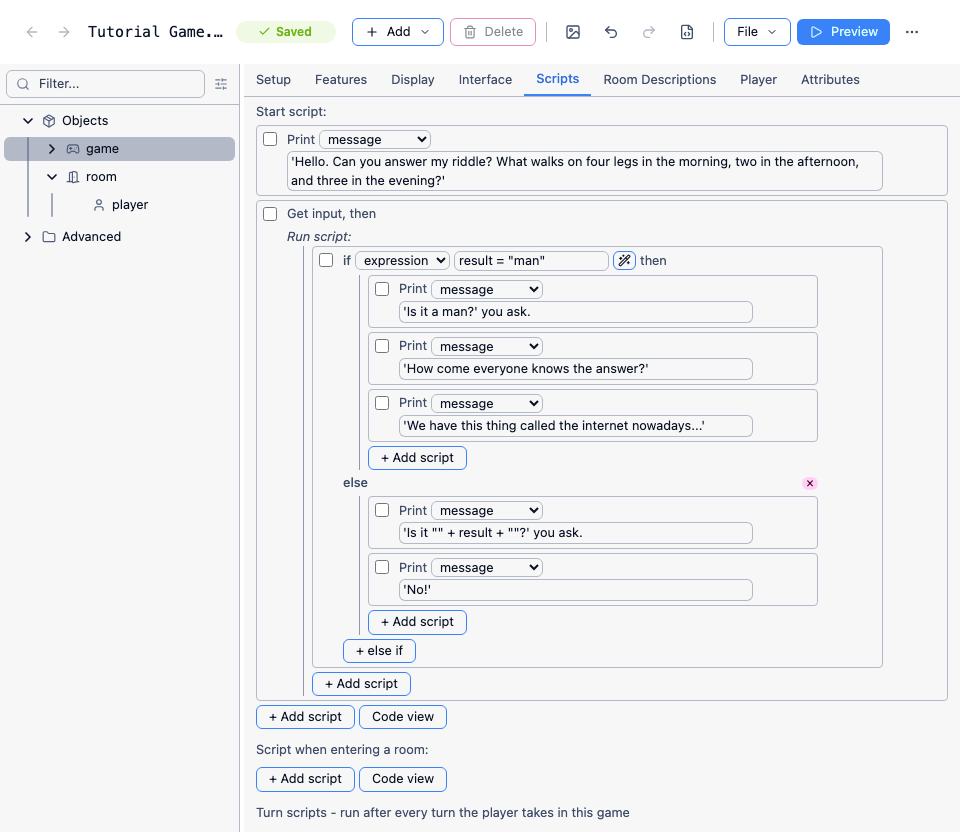
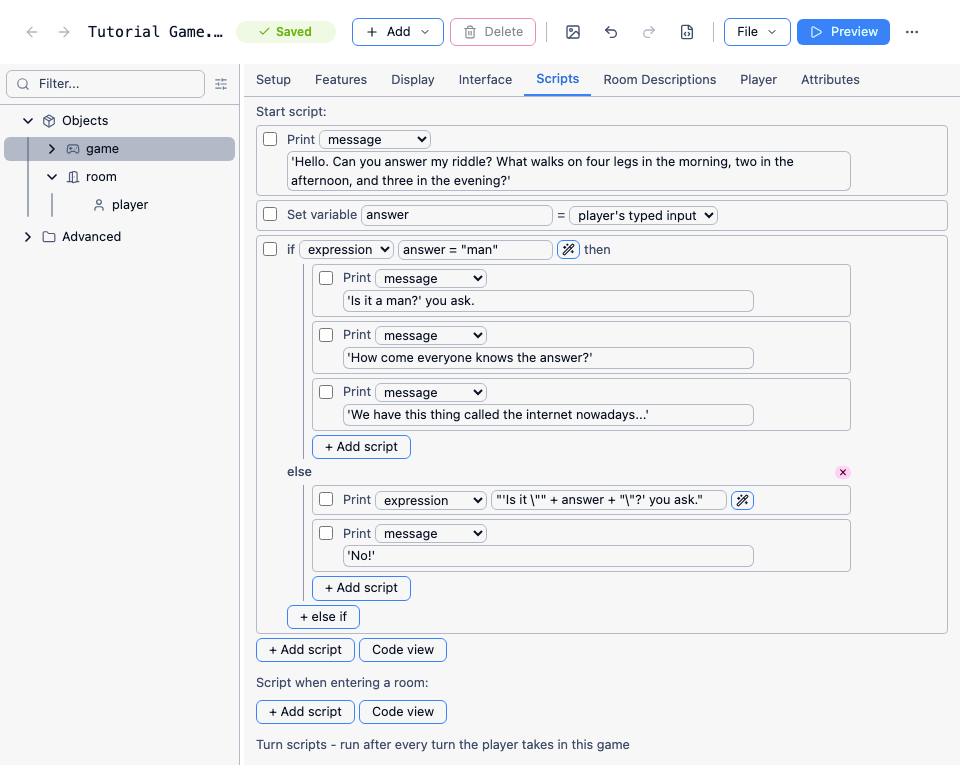
docs: teach the synchronous input forms instead of the callback commands (#2286)

diff --git a/site/src/content/docs/reference/functions/user-interface.md b/site/src/content/docs/reference/functions/user-interface.md
@@ -15,14 +15,33 @@ Adds an option to the `dialoguepage` **source** linking to **destination**, disp
 
 ## Ask
 ```quest
-Ask (string question)  { script }
+Ask (string question)
 ```
 
 <a href="/reference/functions/hardcoded" class="qv-badge">hard-coded</a>
 
-Shows an inline menu of the specified **question** and returns a [boolean](/types#boolean) variable **result** with **true** if the player answers "Yes" to the question.
+Asks the player the specified **question** as a Yes/No popup, and returns a [boolean](/types#boolean) - **true** if they answer "Yes". The script is suspended until they have answered, so the result can go straight into an `if`:
 
-Example:
+```quest
+if (Ask ("Are you sure?")) {
+  msg ("Yes, you are")
+}
+else {
+  msg ("Changed your mind, then")
+}
+```
+
+This replaces the [ask](/scripts#ask) script command, which is no longer offered when you add a script command.
+
+### The callback form
+
+There is a second form, which takes a script and shows the two options as links in the transcript rather than as a popup:
+
+```quest
+Ask (string question)  { script }
+```
+
+The script can read a [boolean](/types#boolean) variable **result**, **true** if the player answered "Yes".
 
 ```quest
 Ask ("Are you sure?") {
@@ -32,9 +51,9 @@ Ask ("Are you sure?") {
 }
 ```
 
-Use the [ask](/scripts#ask) script command for a popup menu.
+This form is still offered in the script editor, for when you want the inline links rather than a popup.
 
-**Note:** This function is "non-blocking", and its script has no access to local variables. For a fuller discussion, see the note on [Blocks and Scripts](/howto/scripting/blocks-and-scripts).
+**Note:** The callback form is "non-blocking", and its script has no access to local variables. For a fuller discussion, see the note on [Blocks and Scripts](/howto/scripting/blocks-and-scripts). Neither caveat applies to the plain `Ask (question)` form above, which simply returns a value.
 
 ## ClearFramePicture
 ```quest
@@ -81,8 +100,6 @@ GetCurrentFontFamily ()
 Returns the fonts currently in use - the [defaultwebfont](/attributes#defaultwebfont) and [defaultfont](/attributes#defaultfont).
 
 ## GetInput
-**Note:** This function is deprecated as of Quest 5.2, and unsupported as of Quest 5.4. Use the [get input(script command)](/scripts#get-input) script command instead.
-
 ```quest
 GetInput()
 ```
@@ -90,6 +107,18 @@ GetInput()
 <a href="/reference/functions/hardcoded" class="qv-badge">hard-coded</a>
 
 Waits for the user to enter some text at the command prompt. Instead of handling the input as a command, it is returned as the result of the function, as a [string](/types#string).
+
+The script is suspended where it is, so the line after the `GetInput()` call does not run until the player has answered:
+
+```quest
+msg ("What is your name?")
+player.alias = GetInput()
+msg ("Hi, " + player.alias)
+```
+
+In the script editor, this is the "player's typed input" template on a "Set a variable or attribute" action. See [Asking a question](/howto/tasks/asking-a-question) for a fuller guide.
+
+**Note:** Quest 5.2 deprecated this function, and Quest 5.4 to 5.8 rejected it outright, in favour of the [get input](/scripts#get-input) script command - blocking the game to wait for an answer tied up a real thread in those versions. Quest Viva suspends the script instead, so the function is available again in games marked as ASL version 600, and is now the better of the two. It still raises an error in a game whose version is 540 to 580; change the game's version to 600 or later to use it.
 
 ## GoToPage
 ```quest
@@ -234,18 +263,41 @@ Sets the web font. Here you can see all available fonts: <https://fonts.google.c
 
 ## ShowMenu
 ```quest
-ShowMenu (string caption, stringdictionary or list options, boolean allow ignore)  { script }
+ShowMenu (string caption, stringdictionary or stringlist options, boolean allow cancel)
 ```
 
 <a href="/reference/functions/hardcoded" class="qv-badge">hard-coded</a>
 
-Shows an inline menu of the specified options and returns a [string](/types#string) variable **result** containing the user input. If a dictionary of options is passed in, the values are displayed as options, the key is returned. If a list of options is passed in, the list item is returned if a string, or the name of the object.
+Shows the specified options as a popup menu and returns the player's choice, as a [string](/types#string). If a dictionary of options is passed in, the values are displayed as options and the key is returned; if a list of options is passed in, the list item is returned. The script is suspended until the player has chosen, so the result can go straight into a variable:
+
+```quest
+colour = ShowMenu ("What is your favourite colour?", Split("Red;Green;Blue;Yellow", ";"), false)
+msg ("You chose " + colour)
+```
+
+If the "allow cancel" parameter is set to **true**, the Cancel button is available, and cancelling returns an empty string. If it is set to **false**, the player must choose one entry of the menu.
+
+The [Split](/reference/functions/string#split) function can be useful to quickly get a list of options, whilst [switch](/scripts#switch) can be useful for dealing with the result. Because one call simply follows another, asking several questions in a row needs no nesting:
+
+```quest
+colour = ShowMenu ("What is your favourite colour?", Split("Red;Green;Blue;Yellow", ";"), false)
+animal = ShowMenu ("Okay, and what is your favourite animal?", Split("Dog;Turtle;Duck;Newt;Trout", ";"), false)
+msg ("Really? A " + LCase(colour) + " " + LCase(animal) + " fan.")
+```
+
+This replaces the [show menu](/scripts#show-menu) script command, which is no longer offered when you add a script command.
+
+### The callback form
+
+There is a second form, which takes a script and shows the options as numbered links in the transcript rather than as a popup:
+
+```quest
+ShowMenu (string caption, stringdictionary or list options, boolean allow ignore)  { script }
+```
+
+The script can read a [string](/types#string) variable **result** containing the player's choice. If a list of objects is passed in, **result** is the object's name, and an object with a link colour specified has that colour used for its link.
 
 If the "allow ignore" parameter is set to **true**, the player can ignore the menu and interact with other objects. The menu is just closed then. If the "allow ignore" parameter is set to **false**, the player must choose one entry of the menu.
-
-Use the [show menu](/scripts#show-menu) script command for a popup menu.
-
-The [Split](/reference/functions/string#split) function can be useful to quickly get a list of options, whilst [switch](/scripts#switch) can be useful for dealing with the result. For example:
 
 ```quest
 options = Split("Red;Green;Blue;Yellow", ";")
@@ -264,7 +316,9 @@ ShowMenu ("What is your favourite colour?", options, false) {
 }
 ```
 
-ShowMenu will also take an object list, or a list of objects and strings. If the object has a link colour specified, this will be used. Note that `result` will always be a string, in the case of an object, it will be the object's name.
+This form is still offered in the script editor, for when you want the inline links rather than a popup.
+
+The callback form will also take an object list, or a list of objects and strings. Note that `result` will always be a string - in the case of an object, it will be the object's name.
 
 ```quest
 ShowMenu ("Select", ScopeInventory(), true) {
@@ -274,7 +328,7 @@ ShowMenu ("Select", ScopeInventory(), true) {
 }
 ```
 
-**Note:** This function is "non-blocking", and its script has no access to local variables. For a fuller discussion, see the note on [Blocks and Scripts](/howto/scripting/blocks-and-scripts).
+**Note:** The callback form is "non-blocking", and its script has no access to local variables. For a fuller discussion, see the note on [Blocks and Scripts](/howto/scripting/blocks-and-scripts). Neither caveat applies to the plain `ShowMenu (caption, options, allow cancel)` form above, which simply returns a value.
 
 ## ShowPage
 ```quest
@@ -319,10 +373,16 @@ UpdateStatusAttributes ()
 Updates the status attributes box.
 
 ## WaitForKeyPress
-**Note:** This function is deprecated as of Quest 5.1 - use the [wait](/scripts#wait) script command instead.
-
 ```quest
 WaitForKeyPress ()
 ```
 
-Waits for a keypress.
+Waits for a keypress. As with [GetInput](#getinput), the script is suspended where it is, so there is no nested block and the next line runs once the player has pressed a key:
+
+```quest
+msg ("First bit")
+WaitForKeyPress
+msg ("Second bit")
+```
+
+**Note:** Quest 5.1 deprecated this function in favour of the [wait](/scripts#wait) script command, for the same reason as [GetInput](#getinput) above. Quest Viva suspends the script rather than blocking a thread, so it is available again - and preferred - in games marked as ASL version 600. It still raises an error in a game whose version is 540 to 580.

diff --git a/site/src/content/docs/scripts/index.md b/site/src/content/docs/scripts/index.md
@@ -51,6 +51,8 @@ variable => { script }
 ask (string question) {script}
 ```
 
+**Superseded:** this command is no longer offered when you add a script command - use the [Ask](/reference/functions/user-interface#ask) function instead, which asks the same question but hands the answer straight back, so it can go directly in an `if` and the script simply continues on the next line. `ask` still runs, and is still editable in games that already use it.
+
 Pops up a prompt for the user to choose Yes or No as the answer to the specified question, and then runs the nested script.
 
 The nested script can check the "result" boolean variable to see the user's response - true for "yes", false for "no".
@@ -268,6 +270,8 @@ For more on how and why to use `foreach`, see [Using Lists](/howto/scripting/usi
 get input {script}
 ```
 
+**Superseded:** this command is no longer offered when you add a script command - use the [GetInput](/reference/functions/user-interface#getinput) function instead, which waits for the player in the same way but returns what they typed, so the rest of the script can just carry on below it. `get input` still runs, and is still editable in games that already use it.
+
 Waits for the user to type some text, then runs the nested script.
 
 The nested script can evaluate the "result" string variable to work with the user's input.
@@ -452,7 +456,7 @@ Valid request names, what they do, and their modern alternative:
 | `Show` | Turns on an interface element ("Panes", "Location" or "Command"). | [JS.uiShow(...)](/js/#uishow) |
 | `ShowPicture` | Shows the specified picture file from the game directory. | [picture](#picture) |
 | `UpdateLocation` | Updates the location bar with the parameter text. | [JS.updateLocation(location)](/js/#updatelocation) |
-| `Wait` | Waits for the player to press a key. Parameter is ignored. | [wait](#wait) script command |
+| `Wait` | Waits for the player to press a key. Parameter is ignored. | [WaitForKeyPress](/reference/functions/user-interface#waitforkeypress) (which is just this request) |
 
 `FontName` and `FontSize` aren't listed above: they now raise an error rather than do anything, so use [SetFontName](/reference/functions/user-interface#setfontname) and [SetFontSize](/reference/functions/user-interface#setfontsize) instead.
 
@@ -494,11 +498,13 @@ You only need to use the "set" command if you are constructing the attribute nam
 show menu (string caption, stringdictionary or stringlist options, boolean allow cancel) {script}
 ```
 
+**Superseded:** this command is no longer offered when you add a script command - use the [ShowMenu](/reference/functions/user-interface#showmenu) function instead, which shows the same popup but returns the chosen option, so the rest of the script can just carry on below it. `show menu` still runs, and is still editable in games that already use it.
+
 Shows a popup menu of options and then runs the nested script. The script can access the variable "result" which contains the result of the user selection - if a dictionary of options is passed in, the key is returned. If a list of options is passed in, the list item is returned.
 
 If the "allow cancel" parameter is set to **true**, the Cancel button is available. If "cancel" is pressed, the variable "result" returns [null](/types#null).
 
-For an in-line menu, use the [ShowMenu](/reference/functions/user-interface#showmenu) function.
+For a menu shown as links in the transcript rather than a popup, use the [ShowMenu](/reference/functions/user-interface#showmenu) function's callback form, `ShowMenu (caption, options, allow cancel) { script }`.
 
 **example:**
 
@@ -553,6 +559,8 @@ Reverts the game state to how it was before the current transaction - see [start
 wait {script}
 ```
 
+**Superseded:** this command is no longer offered when you add a script command - use the [WaitForKeyPress](/reference/functions/user-interface#waitforkeypress) function instead (which is just `request (Wait, "")` under the hood), as that waits without needing a nested block at all. `wait` still runs, and is still editable in games that already use it.
+
 Waits for the user to press a key or click on a "Continue" link, and then runs the nested script. Each successive part needs to be nested inside the one before, like this:
 
 ```quest
@@ -563,6 +571,16 @@ wait {
     msg ("Third bit")
   }
 }
+```
+
+With `WaitForKeyPress` there is nothing to nest:
+
+```quest
+msg ("First bit")
+WaitForKeyPress
+msg ("Second bit")
+WaitForKeyPress
+msg ("Third bit")
 ```
 
 ## while

diff --git a/site/src/content/docs/howto/scripting/blocks-and-scripts.md b/site/src/content/docs/howto/scripting/blocks-and-scripts.md
@@ -13,6 +13,8 @@ Script commands with blocks that wait: `ask, get input, on ready, show menu, wai
 
 Functions with scripts that wait: `Ask, ShowMenu, SetTimeout, SetTimeoutID, SetTurnTimeout, SetTurnTimeoutID`
 
+**Note:** Four of those waiting script commands - [ask](/scripts#ask), [get input](/scripts#get-input), [show menu](/scripts#show-menu) and [wait](/scripts#wait) - are no longer offered when you add a new script command. Use [Ask](/reference/functions/user-interface#ask), [GetInput](/reference/functions/user-interface#getinput), [ShowMenu](/reference/functions/user-interface#showmenu) and [WaitForKeyPress](/reference/functions/user-interface#waitforkeypress) instead: they suspend the script where they are and carry on at the next line, so there is nothing to nest. The rest of this page applies to the callback forms that remain - `on ready`, the timeout functions, and the `Ask (...) { }` and `ShowMenu (...) { }` function forms.
+
 
 ## Script commands and blocks
 
@@ -53,6 +55,21 @@ msg ("You walk swiftly on.")
 The player will be asked the question, but Quest Viva will print "You walk swiftly on." immediately, without waiting for the player to give a response.
 
 The `on ready` script command is there specifically to ensure Quest Viva waits for any outstanding block to end before running its own block.
+
+The `Ask` function does the same job without the trap, because it hands back the answer rather than running a block with it:
+
+```quest
+msg ("A man steps out of the door way. 'You wanna a cheap watch?'")
+if (Ask ("Buy dodgy watch?")) {
+  msg ("'Sure, I'm sure they're full guaranteed, right.' You hand over $50, and get a Rolox watch in return.")
+}
+else {
+  msg ("'No!'")
+}
+msg ("You walk swiftly on.")
+```
+
+Now "You walk swiftly on." really is printed last.
 
 
 ## Functions with scripts
@@ -156,4 +173,14 @@ ShowMenu ("What is your favourite colour?", options, false) {
 }
 ```
 
-The same applies for `wait` or whatever, or combinations. You can have as many nested as you like - though it will get increasing difficult for you to track what belongs were.
+The same applies to any other waiting block or script, or combinations of them. You can have as many nested as you like - though it will get increasing difficult for you to track what belongs were.
+
+If you do not need the inline-link rendering that the `ShowMenu (...) { }` function form gives you, the [ShowMenu](/reference/functions/user-interface#showmenu) expression form avoids the nesting entirely - it pops the menu up as a dialog and hands back the chosen option, so one menu after another is just one line after another:
+
+```quest
+colour = ShowMenu ("What is your favourite colour?", Split("Red;Green;Blue;Yellow", ";"), false)
+animal = ShowMenu ("Okay, and what is your favourite animal?", Split("Dog;Turtle;Duck;Newt;Trout", ";"), false)
+msg ("Really? A " + LCase(colour) + " " + LCase(animal) + " fan.")
+```
+
+Because that is an ordinary expression rather than a script, the local variable problem above does not apply to it either - `this`, `object`, `text` and function parameters are all still in scope after it returns.

diff --git a/site/src/content/docs/howto/tasks/keeping-a-journal.md b/site/src/content/docs/howto/tasks/keeping-a-journal.md
@@ -60,12 +60,11 @@ list add(journal.entries, "You did something important!")
 We are going to do this three ways. Firstly, for `USE JOURNAL`. On the _Features_ tab, tick "Use/Give", then on the _Use/Give_ tab in the "Use (on its own)" section, set it to "Run script". Paste in this code:
 ```quest
 msg ("Please type the text to go in the journal")
-get input {
-  list add (journal.entries, result)
-  msg (result)
-}
+entry = GetInput()
+list add (journal.entries, entry)
+msg (entry)
 ```
-The `get input` command makes Quest Viva wait for the player to type something, and that goes into a special variable called `result`. That text then gets added to the journal entries.
+The [GetInput](/reference/functions/user-interface#getinput) function makes Quest Viva wait for the player to type something, and hands that text back so we can put it in a variable - `entry` here. That text then gets added to the journal entries, and printed back so the player can see it went in.
 
 
 ## The NOTE command
